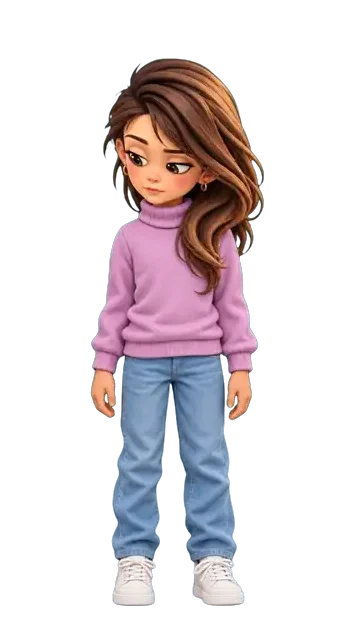
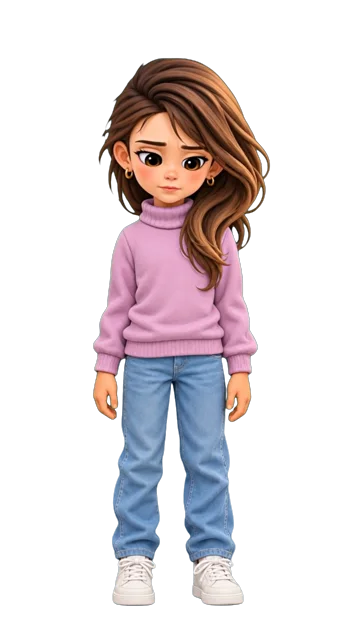
Лаэль: «смотрит на яблоко» без вскидывания головы — из видео взята только часть до того, как она снова поднимает и поворачивает голову

diff --git a/js/kids.js b/js/kids.js
@@ -36,7 +36,7 @@ const KIDS = (() => {
   // ждут: Арбель и Шакед вместе — на зрителя; Лаэль и Беэри — друг на друга; Лаэль — направо (не одно и то же два раза подряд)
   const GLANCES = [[['arbel', '_glance'], ['shaked', '_glance']], [['lael', '_glance'], ['beeri', '_toR']], [['lael', '_right']]];
   const FRONT = { arbel: true };                   // стоит анфас; к столу — видео turn, обратно — back (st.side — повёрнут к столу)
-  const DUR = { arbel_blink: 1250, arbel_turn: 1500, arbel_back: 1670, arbel_peek: 3080, arbel_laughf: 3150, arbel_glancef: 2170, arbel_upf: 2580, arbel_backfast: 580, beeri_turnA: 1580, beeri_turnAback: 1580, beeri_turnR: 1580, beeri_turnRback: 1580, lael_gasp: 2320, beeri_gasp: 2320, arbel_gasp: 2320, shaked_gasp: 2320, lael_right: 3080 };
+  const DUR = { arbel_blink: 1250, arbel_turn: 1500, arbel_back: 1670, arbel_peek: 3080, arbel_laughf: 3150, arbel_glancef: 2170, arbel_upf: 2580, arbel_backfast: 580, beeri_turnA: 1580, beeri_turnAback: 1580, beeri_turnR: 1580, beeri_turnRback: 1580, lael_tolook: 2240, lael_fromlook: 2240, lael_lookidle: 1330, lael_gasp: 2320, beeri_gasp: 2320, arbel_gasp: 2320, shaked_gasp: 2320, lael_right: 3080 };
   const FRONT_ANIMS = ['blink', 'glancef', 'upf', 'turn', 'back', 'backfast', 'peek', 'laughf'];
   const FRONT_IDLE_MS = [3500, 7000];             // анфас Арбель двигается чаще: у него движения короче (1–3 с), чем «стоит» у остальных
   // куда смотрит слушатель, когда говорит [кто]: суффикс картинки; 'side' — Арбель поворачивает голову к столу (там все); нет — не меняется
